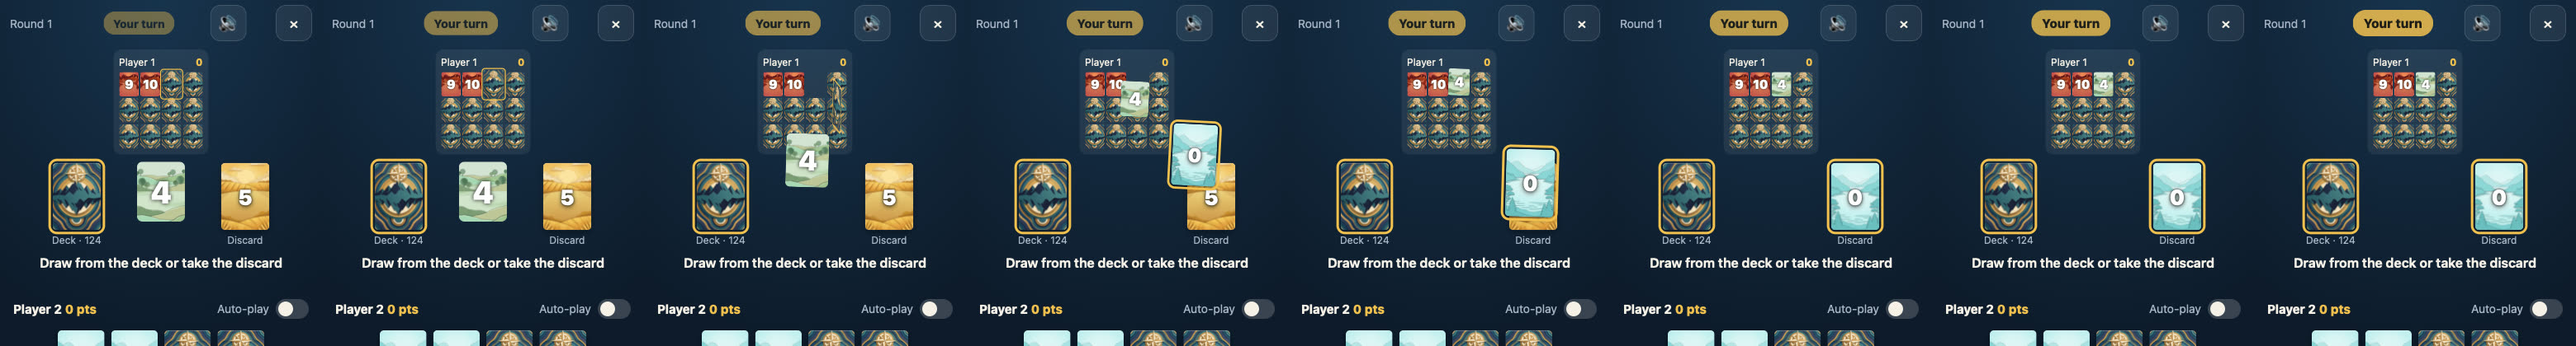
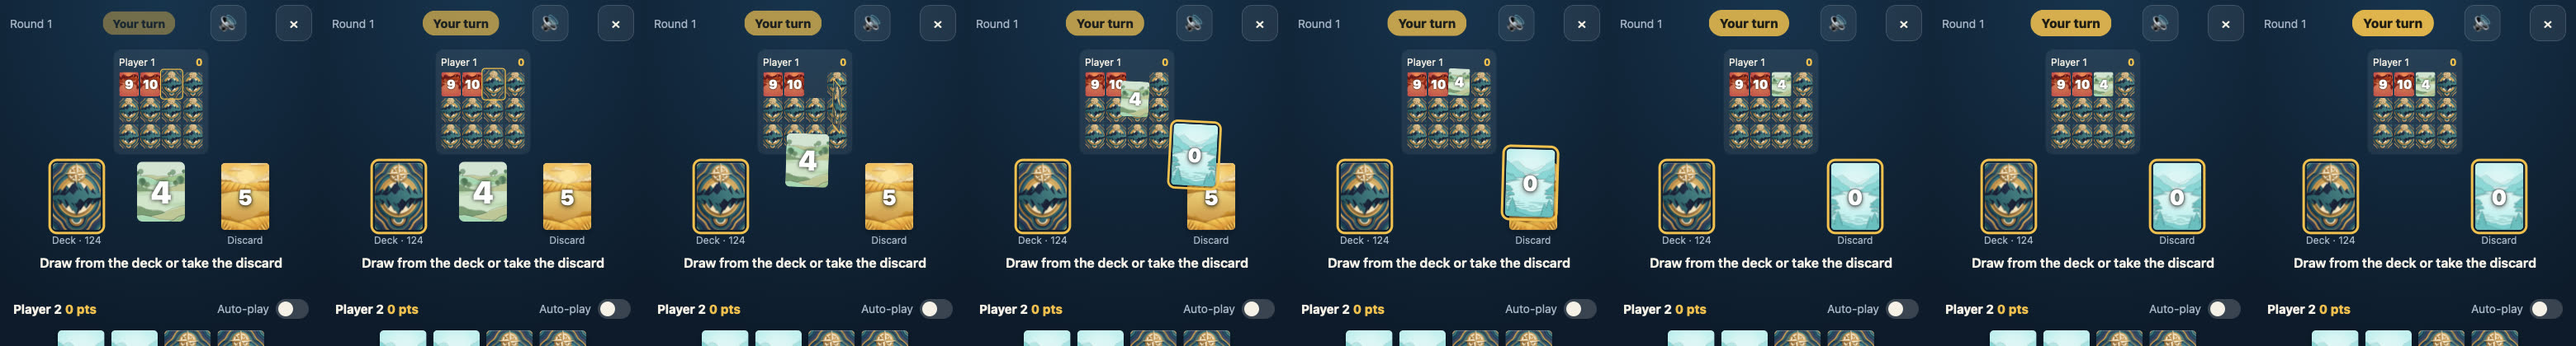
fix: a column's stand-ins survive updates that move nothing; flyers pass over the column (M19 review)

diff --git a/src/client/motion.ts b/src/client/motion.ts
@@ -644,7 +644,8 @@ export function useFlights(
           opacity: 1,
         }));
         const options = { delay: go, duration: COLUMN.fly, id: LEAVE, fill: "forwards" as const };
-        jobs.push({ el: flyer, keyframes, options });
+        // Over the column's other cards as it leaves past them, then stacked as it lands.
+        jobs.push({ el: flyer, keyframes, options, done: raise(flyer) });
         jobs.push(hide(el, go));
       });
       jobs.push(
@@ -663,9 +664,10 @@ export function useFlights(
       const done = column.length ? undefined : drop(under);
       jobs.push({ el: under, keyframes: [{ opacity: 1 }, { opacity: 1 }], options, done });
     }
+    // Added to, so an update that moves nothing (ended nothing) keeps the last change's.
     const started = start(jobs);
-    lingering.current = started.filter(
-      (_, i) => jobs[i].el.dataset.copy !== undefined || jobs[i].role === "hide",
+    lingering.current.push(
+      ...started.filter((_, i) => jobs[i].el.dataset.copy !== undefined || jobs[i].role === "hide"),
     );
     measureAgain.current(); // and again once they land
   }, [view, reduced, tapped]);
@@ -708,7 +710,9 @@ export function useFlights(
     window.addEventListener("resize", moved);
     measureAgain.current = remeasure;
     const left = copies.current;
+    const end = endStandIns.current;
     return () => {
+      end(); // no card stays hidden (reduced motion switched on mid-column)
       for (const el of left) el.remove();
       on = false;
       measureAgain.current = () => {};

diff --git a/e2e/motion.spec.ts b/e2e/motion.spec.ts
@@ -961,11 +961,18 @@ test.describe("with motion allowed", () => {
       expect(Math.abs(look.num), `card ${i}: number`).toBeLessThanOrEqual(0.5);
       expect(look.theirs).toBeGreaterThanOrEqual(12);
     }
-    // You take the discard while their column still waits: it's over, and the pile shows.
+    // An update that moves nothing (presence, a clock) leaves it be; you take the discard while
+    // their column still waits: it's over, and the pile shows.
     const take = apply(after, { type: "draw", seat: me, source: "discard" });
-    await page.evaluate((view) => {
-      dispatchEvent(new CustomEvent("skyjo:table", { detail: { view } }));
-    }, toView(take));
+    await page.evaluate(
+      ([same, take]) => {
+        dispatchEvent(new CustomEvent("skyjo:table", { detail: { view: same } }));
+        const stays = document.querySelectorAll(".card[data-copy]").length;
+        dispatchEvent(new CustomEvent("skyjo:table", { detail: { view: take } }));
+        if (!stays) throw new Error("an update that moves nothing ended the column");
+      },
+      [toView(after), toView(take)],
+    );
     await expect(page.locator(".card[data-copy]")).toHaveCount(0);
     await expect(page.getByTestId("discard")).toHaveCSS("opacity", "0.45"); // dimmed under yours
     const gone = page.getByTestId("opponent").locator('[data-face="gone"]');

diff --git a/docs/PLAN.md b/docs/PLAN.md
@@ -459,21 +459,21 @@ The expert counts slow taps as part of the "not smooth" feeling. All three items
   - A column's card has two stand-ins. One is in its own look where it lies: an opponent's small card keeps its shape and its 12 px number. The other, like the pile's card, flies from where the first one was.
   - The card a column-completing swap replaced goes under the column. If it was face down, nobody saw it: it flies face down and fades as it lands, since no discard lies face down.
   - The pile shows its old card under a card flying onto it (UX-30).
-- **Stand-ins don't outlive their change.** The next move's flights, a tap, or a scroll end them at once. A scroll would leave them behind, since they're fixed to the page, so the opponent strip and your grid scroll into view only once the last move's cards have landed.
+- **Stand-ins don't outlive their change.** The next move's flights, a tap, or a scroll end them at once; an update that moves nothing (presence, a clock) leaves them be. A scroll would leave them behind, since they're fixed to the page, so the opponent strip and your grid scroll into view only once the last move's cards have landed.
 - **The sequence.** The column waits until the change's other animations end, then a 120 ms beat. Its cards pulse (1.1 over 220 ms) with the chime, then leave 70 ms apart, 380 ms each. "Your turn" and the round summary wait for the last one, through `timing`.
 - **`heard`** is used up by the answer even when it completes a column, because its placed or turned card is now one of its moves or flips. `Table` also clears it once the answer has rendered, so an answer that plays none of it, an error say, can't silence a later sound.
 - **The reveal's long frame** came from raising every turning card (`z-index: 2`): at 8 seats that is about 70 new stacking contexts in one frame. A card turning over in place stays among its neighbours (`data-motion="flip"`, `z-index: auto`) and keeps its back face. The 8-seat final reveal, WebKit (iPhone 13 project), longest frame after the view arrives, median of 9 runs on the author's machine:
 
-  | Build | Median |
-  | --- | --- |
-  | Pre-M11 (`ddad362`) | 57 ms |
-  | `main` | 70–75 ms |
+  | Build               | Median           |
+  | ------------------- | ---------------- |
+  | Pre-M11 (`ddad362`) | 57 ms            |
+  | `main`              | 70–75 ms         |
   | This PR, three sets | 56, 56 and 58 ms |
 
 - **Delivery.**
   - **Locally, iPhone, 1 worker:** the six split tests take 0.3–0.5 s each. The four new motion tests and the opponent-column one take 0.3–1.2 s each.
   - **Side by side:** `main`'s and this branch's full iPhone projects ran at once, 4 workers each, at load 31–131. Nothing timed out. `main`'s M18 test took 16.5 s and its UX-21 test 11.8 s; the split ones took at most 9.7 s and 4.2 s.
-  - **No flakes:** `--repeat-each=20` on iPhone at 6 workers passed 300 of 300.
+  - **No flakes:** `--repeat-each=20` on iPhone at 6 workers passed 300 of 300, and 280 of 280 after the review's last fixes.
 
 ### M20 — The deal · v2.2.5
 
